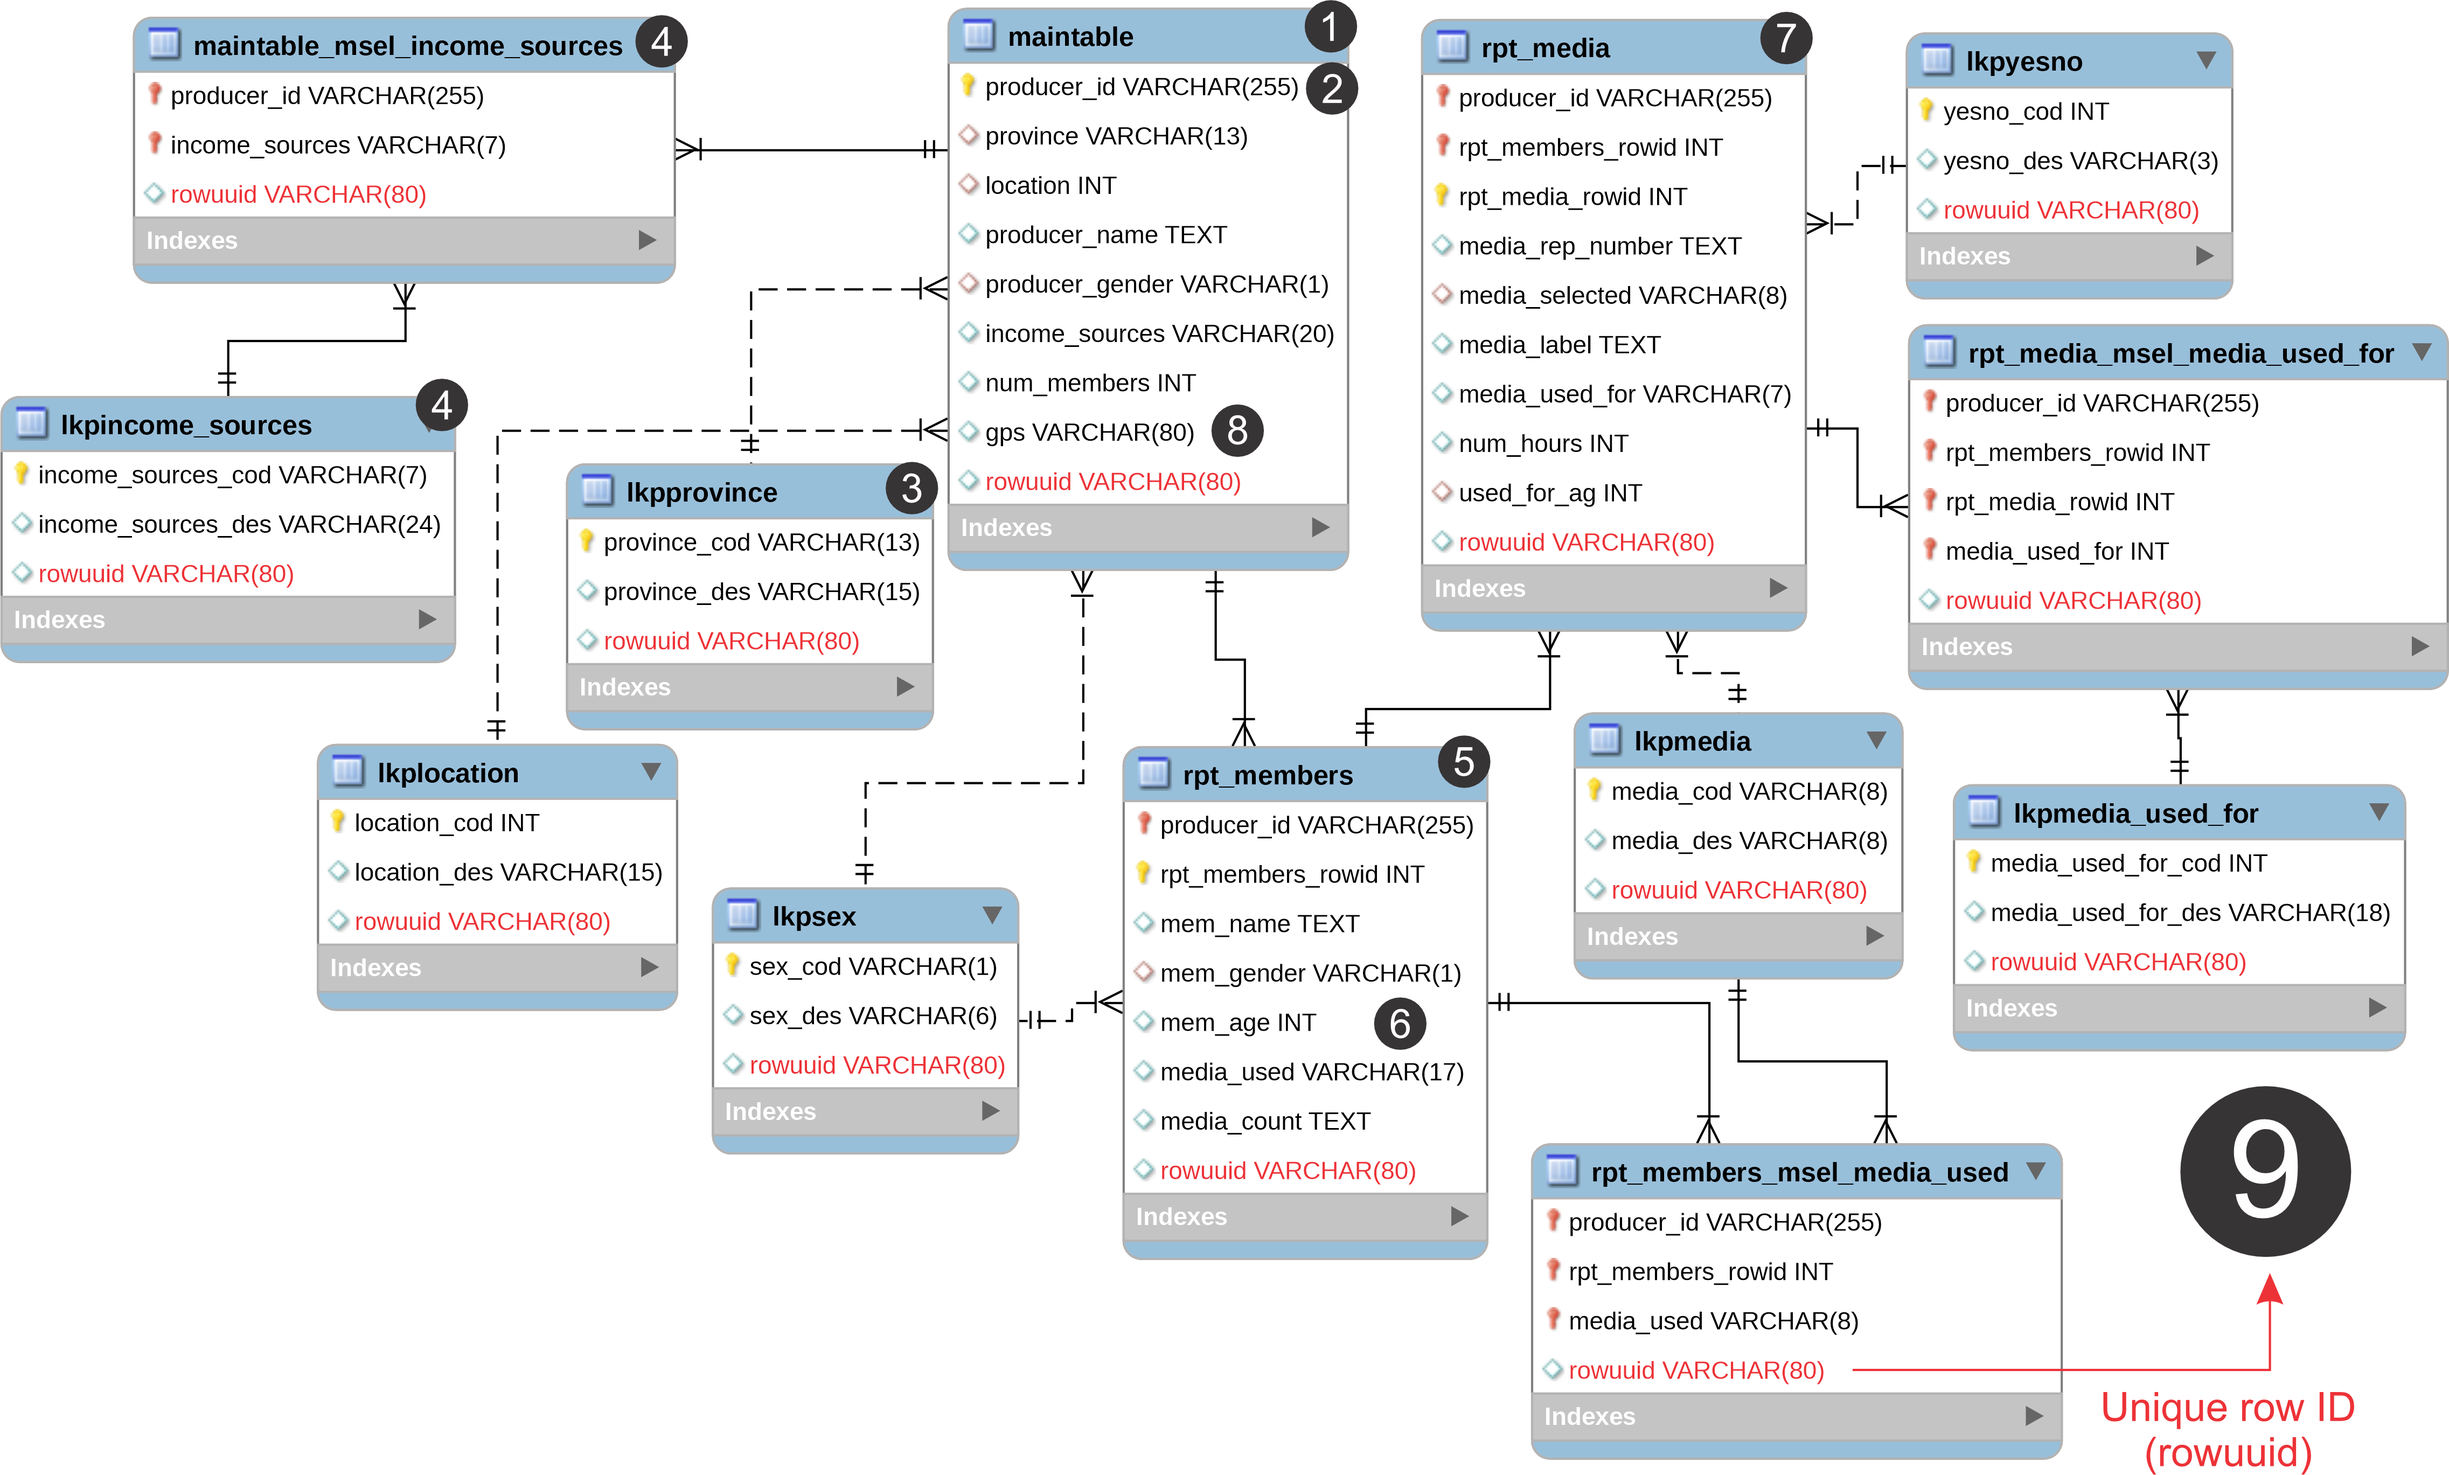
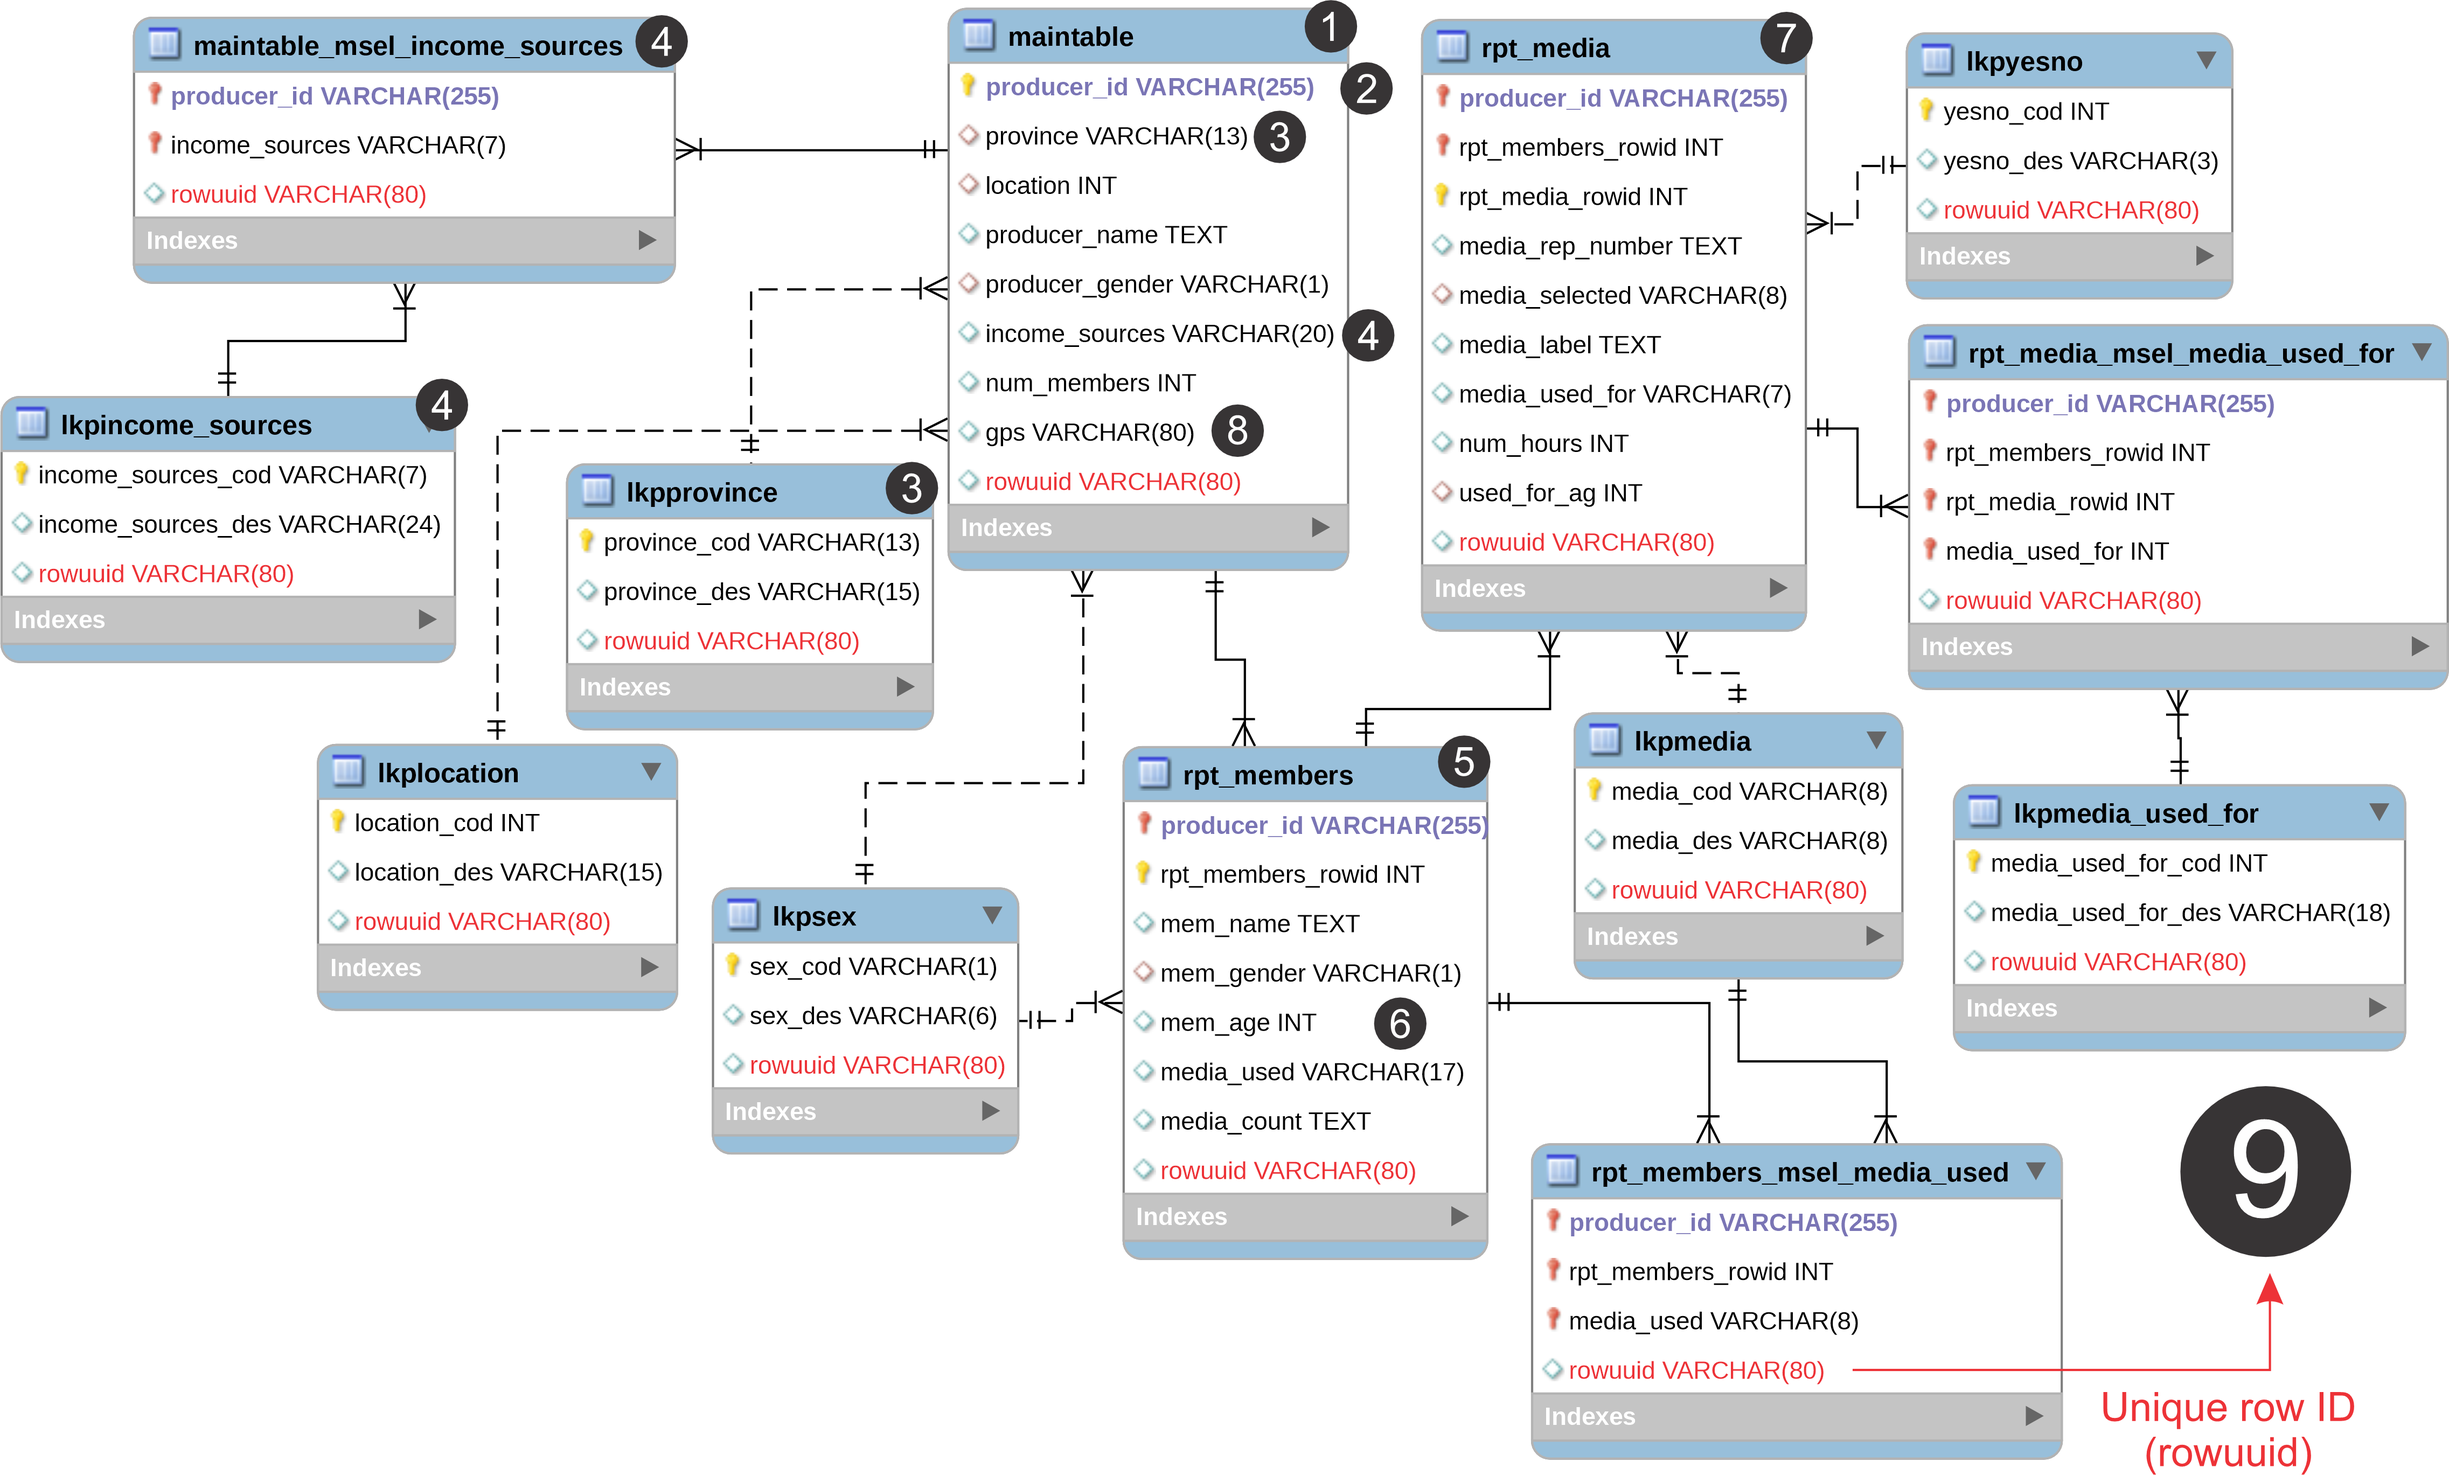
GitBook: [#31] More explanation in storage section

diff --git a/docs/fundamentals/repositories/how-does-formshare-stores-my-data.md b/docs/fundamentals/repositories/how-does-formshare-stores-my-data.md
@@ -42,21 +42,29 @@ For each ODK form that you upload into FormShare, the system creates a database 
 
 Let’s explore the below ODK Form:
 
-<figure><img src="../../.gitbook/assets/formshare_storage_01.png" alt=""><figcaption></figcaption></figure>
+<figure><img src="../../.gitbook/assets/formshare_storage_01 (2).png" alt=""><figcaption></figcaption></figure>
 
-This ODK Form will generate the following repository:
+The ODK has single and multiple selects and two repeats (one nested inside another). If you upload the form, FormShare will ask you to indicate which variable will be used to control duplicate data. In this example such variable is "producer\_id" and therefore it will be the <mark style="color:purple;">**Primary key**</mark> of the repository.
+
+FormShare will generate the following repository from the above ODK form:
+
+{% hint style="info" %}
+The numbers between the image above and the image below match to indicate how FormShare created the repository based on the structure of the ODK form.
+{% endhint %}
 
 <figure><img src="../../.gitbook/assets/formshare_storage_02.png" alt=""><figcaption></figcaption></figure>
 
-1\. **Variables outside repeats:** They are stored in a data table called “maintable”. This is the primary table of the repository.
+## A repository in detail
 
+{% hint style="info" %}
+Each number of the above images is explained in detail.
+{% endhint %}
 
+<mark style="color:red;">**1.**</mark> **Variables outside repeats:** They are stored in a data table called “maintable”. This is the primary table of the repository.
 
-2\. **Primary key:** To control duplicate submissions the repository needs a <mark style="color:purple;">**primary key**</mark>. When uploading a form you need to select a variable that its data will not duplicate across the whole sample that you expect to have. For example, <mark style="color:purple;">**producer\_id**</mark>.
+<mark style="color:red;">**2.**</mark> **Primary key:** To control duplicate submissions the repository needs a <mark style="color:purple;">**primary key**</mark>. When uploading a form you need to select a variable that its data will not duplicate across the whole sample that you expect to have. For example, <mark style="color:purple;">**producer\_id**</mark>.
 
-
-
-3\. Single selects: Single selects whether their options come from external files or not creates a lookup table. The lookup table will be called “lkp\_<mark style="color:blue;">**\[listname]**</mark>”. For example, if you have “select\_one province” FormShare will create the lookup table called “lkp\_<mark style="color:blue;">**province**</mark>”.
+<mark style="color:red;">**3.**</mark> **Single selects:** Single selects whether their options come from external files or not creates a lookup table. The lookup table will be called “lkp\_<mark style="color:blue;">**\[listname]**</mark>”. For example, if you have “select\_one province” FormShare will create the lookup table called “lkp\_<mark style="color:blue;">**province**</mark>”.
 
 Each lookup table has two columns: “<mark style="color:blue;">**\[listname]**</mark>\_cod” storing option names/codes and “<mark style="color:blue;">**\[listname]**</mark>\_des” storing option labels/descriptions. For example, the lookup table “lkp\_province” will have the following columns: “<mark style="color:blue;">**province**</mark>\_cod” and “<mark style="color:blue;">**province**</mark>\_des”.
 
@@ -64,9 +72,13 @@ The lookup table will store all the options and will be linked to the data table
 
 The data tables storing the submission data will save the option name/code while the label/description of the option will always reside in the lookup table. The <mark style="color:purple;">**primary key**</mark> of all lookup tables is the “<mark style="color:blue;">**\[listname]**</mark>\_cod” column. For example, the <mark style="color:purple;">**primary key**</mark> of “lkp\_provice” is “<mark style="color:purple;">**province\_cod**</mark>”.
 
+The below image explains how single selects are stored and linked:
+
 <figure><img src="../../.gitbook/assets/formshare_storage_03.png" alt=""><figcaption></figcaption></figure>
 
-4\. **Select multiple:** ODK Collect stores “select multiple” variables in one field with selected options separated by space. FormShare stores it as independent rows in a separate table linked to the data table using such multi-select and to the associated lookup table. For example:
+<mark style="color:red;">**4.**</mark> **Select multiple:** ODK Collect stores “select multiple” variables in one field with selected options separated by space. FormShare stores it as independent rows in a separate table linked to the data table using such multi-select and to the associated lookup table.
+
+The image below explain how select multiples are stored and linked:
 
 <figure><img src="../../.gitbook/assets/formshare_storage_04.png" alt=""><figcaption></figcaption></figure>
 
@@ -74,29 +86,27 @@ Each multi-select table is named in the following way: “<mark style="color:blu
 
 The <mark style="color:purple;">**primary key**</mark> of a multi-select table will be the combination of its parent’s <mark style="color:purple;">**primary key**</mark> plus and the multi-select variable. For example, the <mark style="color:purple;">**primary key**</mark> of “maintable\_msel\_income\_sources” is “<mark style="color:purple;">**producer\_id**</mark>” + “<mark style="color:purple;">**income\_sources**</mark>”.
 
-
-
-5\. **Repeats:** Repeats create data tables. The name of the data table is the same as the repeat. For example, the repeat “rpt\_members” will create the table “rpt\_members”.
+<mark style="color:red;">**5.**</mark> **Repeats:** Repeats create data tables. The name of the data table is the same as the repeat. For example, the repeat “rpt\_members” will create the table “rpt\_members”.
 
 Repeats at the same level of variables outside a repeat will become “child data tables” of “maintable”. For example, “rpt\_members” is a child table of “maintable”.
 
 The <mark style="color:purple;">**primary key**</mark> of a repeat data table will be the combination of its parent’s <mark style="color:purple;">**primary key**</mark> plus a sequence column called “<mark style="color:blue;">**\[repeat\_name]**</mark>\_rowid”. For example, the <mark style="color:purple;">**primary key**</mark> of “rpt\_members” is “<mark style="color:purple;">**producer\_id**</mark>” + “<mark style="color:purple;">**rpt\_members\_rowid**</mark>”. The sequence will start in 1 and increment for every row.
 
+The image below explain repeats are stored and linked:
+
 <figure><img src="../../.gitbook/assets/formshare_storage_05.png" alt=""><figcaption></figcaption></figure>
 
-6\. **Variables inside repeats**: Because repeats create data tables, all the variables contained by the repeat will be part of that data table.
+<mark style="color:red;">**6.**</mark> **Variables inside repeats**: Because repeats create data tables, all the variables contained by the repeat will be part of that data table.
 
-
-
-7\. **Nested repeats:** Repeats inside another repeat will become “child data tables” of its parent repeat. For example, “rpt\_media” is a child table of “rpt\_members”.
+<mark style="color:red;">**7.**</mark> **Nested repeats:** Repeats inside another repeat will become “child data tables” of its parent repeat. For example, “rpt\_media” is a child table of “rpt\_members”.
 
 The <mark style="color:purple;">**primary key**</mark> of a nested repeat data table will be the combination of its parent’s <mark style="color:purple;">**primary key**</mark> plus a sequence column called “<mark style="color:blue;">**\[repeat\_name]**</mark>\_rowid”. For example, the <mark style="color:purple;">**primary key**</mark> of “rpt\_members” is “<mark style="color:purple;">**producer\_id**</mark>” + “<mark style="color:purple;">**rpt\_members\_rowid**</mark>” therefore the <mark style="color:purple;">**primary key**</mark> of “rpt\_media” is “<mark style="color:purple;">**producer\_id**</mark>” + “<mark style="color:purple;">**rpt\_members\_rowid**</mark>” + “<mark style="color:purple;">**rpt\_media\_rowid**</mark>” The sequence will start in 1 and increment for every row.
 
+The image below explains how nested repeats are stored and linked:
+
 <figure><img src="../../.gitbook/assets/formshare_storage_07.png" alt=""><figcaption></figcaption></figure>
 
-8\. **Geopoint outside a repeat:** If you record the GPS position as part of your data, place the “geopoint” variable outside any repeat. FormShare will detect it and use it to display your submissions on a map and to generate products like KLM.
+<mark style="color:red;">**8.**</mark> **Geopoint outside a repeat:** If you record the GPS position as part of your data, place the “geopoint” variable outside any repeat. FormShare will detect it and use it to display your submissions on a map and to generate products like KLM.
 
-
-
-9\. **Unique row ID (rowuuid):** This is perhaps the most important feature in a FormShare repository. Each row of data in any table (data, lookup, or multi-select) in any repository has a unique row ID. This unique ID allows FormShare to identify a row in the system and to determine the associated form, repository, and table. The unique Row ID is commonly used in API data cleaning to update data in the repository.
+<mark style="color:red;">**9.**</mark> **Unique row ID (rowuuid):** This is perhaps the most important feature in a FormShare repository. Each row of data in any table (data, lookup, or multi-select) in any repository has a unique row ID. This unique ID allows FormShare to identify a row in the system and to determine the associated form, repository, and table. The unique Row ID is commonly used in API data cleaning to update data in the repository.
 
